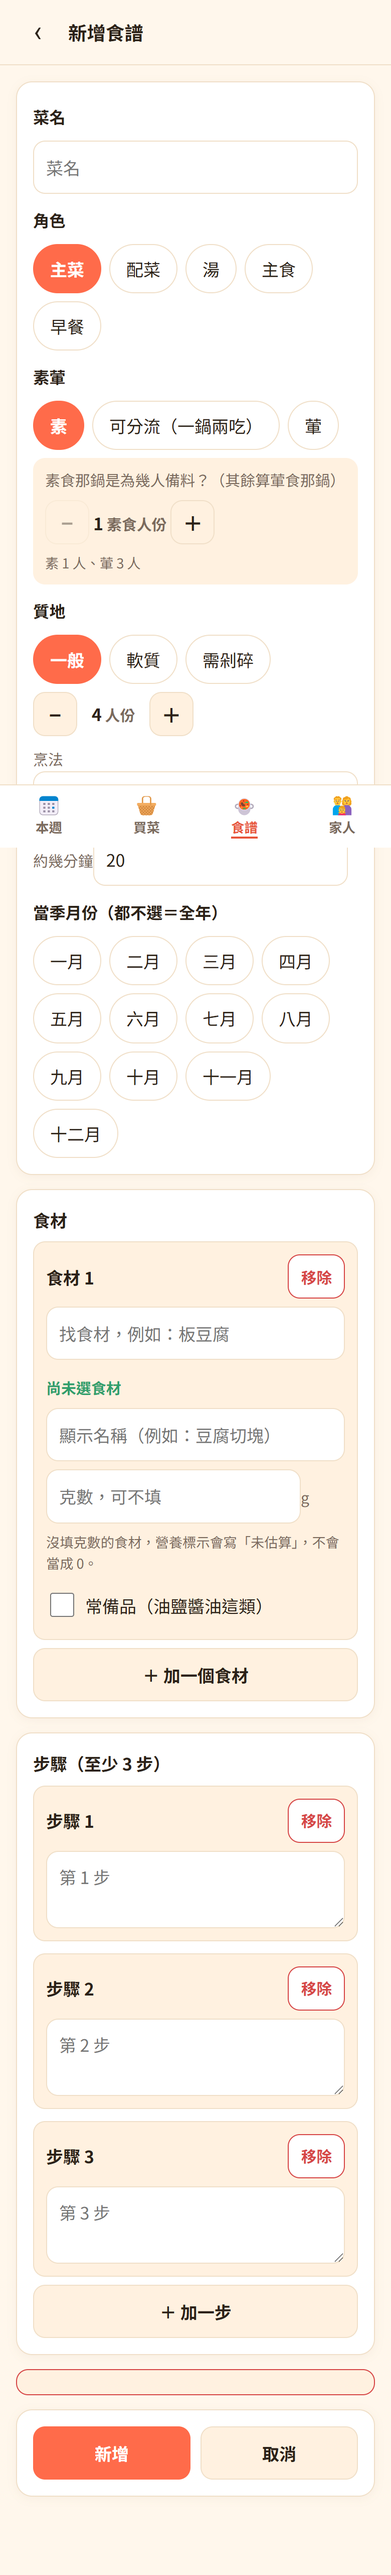
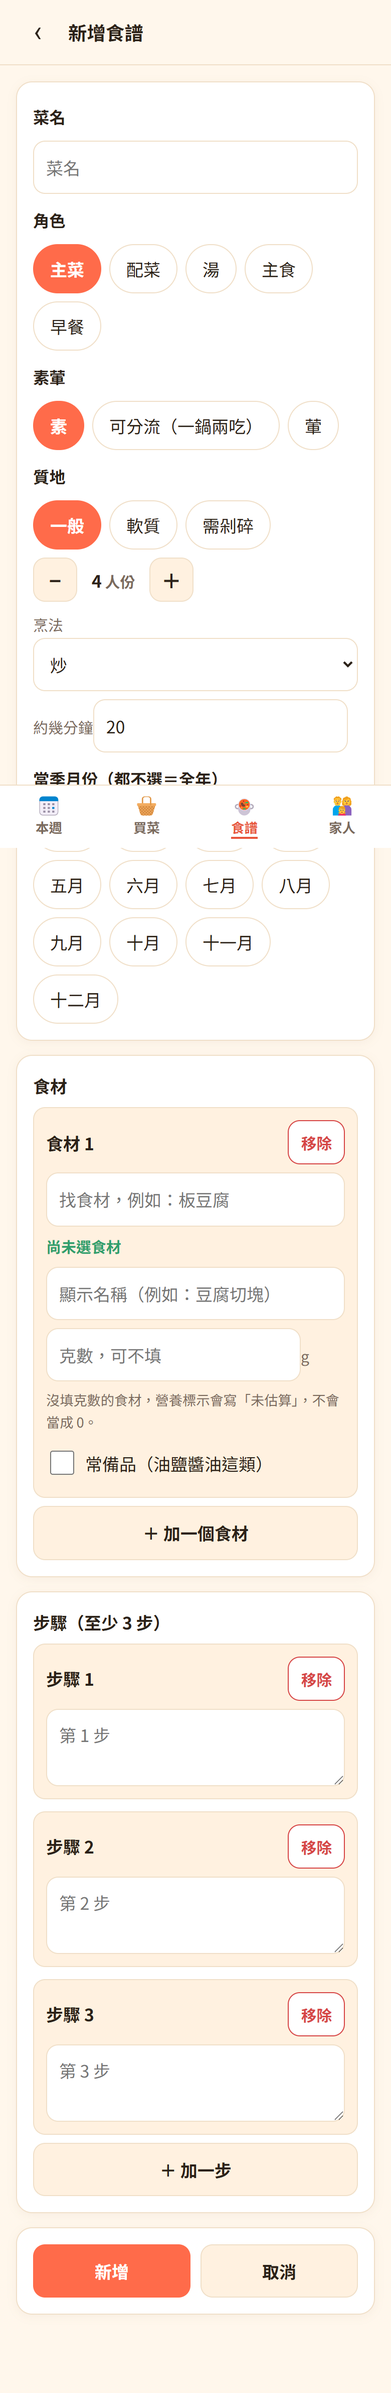
v0.2.1：[hidden] 要贏過 display:flex（腎臟病子項、錯誤框、分流人份區塊）；familytest／recipeviewtest 改成量 computed style；STATUS 更新

diff --git a/index.html b/index.html
@@ -19,14 +19,14 @@
   <meta name="apple-mobile-web-app-title" content="MealMate" />
 
   <link rel="stylesheet" href="./css/style.css" />
-  <link rel="modulepreload" href="./js/app.js?v=mealmate-v0.2.0" />
+  <link rel="modulepreload" href="./js/app.js?v=mealmate-v0.2.1" />
   <link rel="modulepreload" href="./js/router.js" />
   <link rel="modulepreload" href="./js/store.js" />
   <link rel="modulepreload" href="./js/db.js" />
   <link rel="modulepreload" href="./js/ui.js" />
   <link rel="modulepreload" href="./js/shell.js" />
   <link rel="modulepreload" href="./js/prefs.js" />
-  <link rel="modulepreload" href="./js/views/week.js?v=mealmate-v0.2.0" />
+  <link rel="modulepreload" href="./js/views/week.js?v=mealmate-v0.2.1" />
 </head>
 <body>
   <div id="app">
@@ -45,6 +45,6 @@
   <div id="modalRoot"></div>
 
   <noscript>MealMate 需要啟用 JavaScript 才能執行。</noscript>
-  <script type="module" src="./js/app.js?v=mealmate-v0.2.0"></script>
+  <script type="module" src="./js/app.js?v=mealmate-v0.2.1"></script>
 </body>
 </html>

diff --git a/css/style.css b/css/style.css
@@ -25,6 +25,10 @@
 
 * { box-sizing: border-box; }
 
+/* hidden 屬性要贏過 .notice／.sub-block／.picker-results 這些 display:flex 的 class。
+   沒有這一條，腎臟病沒開時子項照樣顯示、空的錯誤框會變成一條紅框（截圖走查抓到的）。 */
+[hidden] { display: none !important; }
+
 html, body {
   margin: 0;
   padding: 0;

diff --git a/js/version.js b/js/version.js
@@ -12,7 +12,7 @@
 //
 // 改版本號用 `npm run bump -- mealmate-v0.1.1`；shelltest 會斷言三者一致。
 
-export const APP_VERSION = 'mealmate-v0.2.0';
+export const APP_VERSION = 'mealmate-v0.2.1';
 
 /** 給動態 import 與資源網址用的版本參數。 */
 export const V = `?v=${APP_VERSION}`;

diff --git a/sw.js b/sw.js
@@ -5,7 +5,7 @@
  *
  * 每次改動任何 SHELL 檔案都要 bump VERSION，否則使用者拿到的還是舊程式。
  */
-const VERSION = 'mealmate-v0.2.0';
+const VERSION = 'mealmate-v0.2.1';
 const SHELL = `${VERSION}-shell`;
 
 const SHELL_ASSETS = [

diff --git a/docs/STATUS.md b/docs/STATUS.md
@@ -1,6 +1,6 @@
 # MealMate 專案狀態（docs/STATUS.md）
 
-> 最後更新：2026-09-13。**M0、M1 完成並上線（`mealmate-v0.2.0`）；M2 尚未開始。**
+> 最後更新：2026-09-13。**M0、M1 完成並上線（`mealmate-v0.2.1`）；M2 尚未開始。**
 > repo `yolin0513/mealmate`，GitHub Pages `https://yolin0513.github.io/mealmate/`。
 > 給接手的工作階段快速接手用。規劃細節見 `PLAN.md`（唯一真相來源），實測見 `FEASIBILITY.md`，資料與衛教來源見 `SOURCES.md`。
 
@@ -9,17 +9,17 @@
 | 里程碑 | 狀態 | 線上版本 |
 |---|---|---|
 | M0 資料與骨架 | ✅ 完成（2026-09-13） | `mealmate-v0.1.0` |
-| M1 家人與食譜瀏覽 | ✅ 完成（2026-09-13） | `mealmate-v0.2.0` |
+| M1 家人與食譜瀏覽 | ✅ 完成（2026-09-13） | `mealmate-v0.2.1` |
 | M2 週計畫 | ⏳ 未開始（**下一步從這裡開始**） | — |
 | M3 買菜 | ⏳ 未開始 | — |
 | M4 今日煮與打磨 | ⏳ 未開始 | — |
 | M5 上線 | ⏳ 未開始 | — |
 
-測試現況：12 支測試 ＋ `mutationtest`。Node 端：datatest 57、aliastest 26、unittest 29、edutest 13、copytest 7、recipetest 45、membertest 41、nutritiontest 65；瀏覽器端（puppeteer）：shelltest 104、familytest 27、recipeviewtest 47、backuptest 30。`mutationtest` **47 條突變逐一證明關鍵斷言改壞會紅**。全套約 15 分鐘（突變佔大半）；平常只跑受影響的（慣例 15）。
+測試現況：12 支測試 ＋ `mutationtest`。Node 端：datatest 57、aliastest 26、unittest 29、edutest 13、copytest 7、recipetest 45、membertest 41、nutritiontest 65；瀏覽器端（puppeteer）：shelltest 104、familytest 29、recipeviewtest 49、backuptest 30。`mutationtest` **48 條突變逐一證明關鍵斷言改壞會紅**。全套約 15 分鐘（突變佔大半）；平常只跑受影響的（慣例 15）。
 
 ### M1 開發期的實測發現
 
-1. **兩個真 bug 都是測試抓到的，不是人眼**：(a) 沒有家人時營養卡多印出一個「null」字（`replaceChildren(null)` 不像 `h()` 會略過 null）→ shelltest 每條路由現在都斷言畫面上沒有 `null`／`undefined`／`NaN`；(b) toast 淡出的 250 毫秒仍在畫面上（opacity 0），會擋住底下的按鈕 → `#toast { pointer-events: none }`，shelltest 有斷言、mutationtest 有突變。
+1. **三個真 bug**：(a) 沒有家人時營養卡多印出一個「null」字（`replaceChildren(null)` 不像 `h()` 會略過 null）→ shelltest 每條路由現在都斷言畫面上沒有 `null`／`undefined`／`NaN`；(b) toast 淡出的 250 毫秒仍在畫面上（opacity 0），會擋住底下的按鈕 → `#toast { pointer-events: none }`；(c) `.sub-block`／`.notice` 的 `display:flex` 蓋掉 `hidden` 屬性，腎臟病沒開時子項照樣顯示、空的錯誤框變成一條紅框 → `[hidden] { display: none !important }`。(a)(b) 是測試抓到的，(c) 是截圖走查抓到的——familytest 原本只驗「開了會出現」沒驗「沒開要看不到」，已補成量 computed style 與高度。三個都有突變。
 2. **puppeteer 的 `page.click` 只檢查元素在視窗範圔內就點中心**，頁面底部的按鈕會被固定分頁列或 toast 蓋住。瀏覽器測試一律用 `browserlib.clickEl()`（先捲到畫面中央再點）。
 3. **可分流的菜要宣告 `splitServings`**（素幾人份、葷幾人份，加起來等於 servings），否則「每人一份」算不出來。10 道內建食譜都設素 1、葷 3；分流步驟文字改成「依吃素的人數分」。M2 依實際家人人數縮放兩軌。
 4. **醣類份數不做**（使用者 2026-09-13 確認）：食物代換表頁是檔案下載、沒有可引用原文；在拿到出處之前只顯示「估 醣 X g」。recipeviewtest 有一條斷言畫面上沒有「份醣／醣類份數」。
@@ -78,7 +78,7 @@
 
 食藥署轉檔、別名表、採買單位、國健署人工開頁、36 道食譜、PWA 殼、七支測試與 30 條突變。驗收明細見 git 歷史 `bf0cc6b`。
 
-### M1 家人與食譜瀏覽 ✅（`mealmate-v0.2.0`）
+### M1 家人與食譜瀏覽 ✅（`mealmate-v0.2.1`）
 
 | 工作 | 驗收（實際） |
 |---|---|
@@ -133,5 +133,6 @@
 5. **用名稱字串（尤其子字串）去查食藥署營養。** 食譜只存整合編號；口語詞經 `resolveFood` 精確比對；新食材先 `npm run findfood -- 詞`。
 6. **`replaceChildren()` 傳 null 進去。** 畫面上會出現「null」字。h() 會略過 null，`replaceChildren` 不會 —— 先 `.filter(Boolean)`。shelltest 每條路由都掃。
 7. **瀏覽器測試用 `page.click` 點頁面底部的東西。** 會點到固定分頁列或正在淡出的 toast。用 `clickEl()`。
+8. **「看不到」只驗 `hidden` 屬性。** 屬性在、東西照樣顯示（display:flex 蓋掉它）。要驗就量 `getComputedStyle().display` 與 `getBoundingClientRect().height`（familytest 的 `shownBox`）。
 
 另外三件較小但會一路痛的：**早餐納入不重複計分**（`noRepeatDays.breakfast` 是 0，有突變）；**池子不夠時靜默重複**（要進 `diagnostics` 並在本週頁明講）；**改了食譜沒跑 `npm run build-recipes`**（`recipetest` 會紅）。
